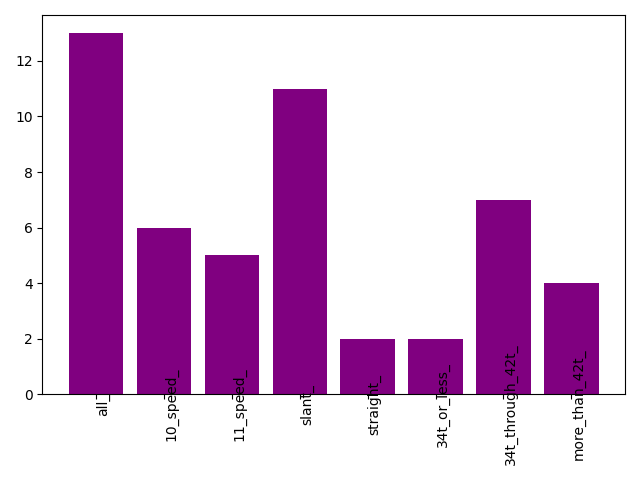
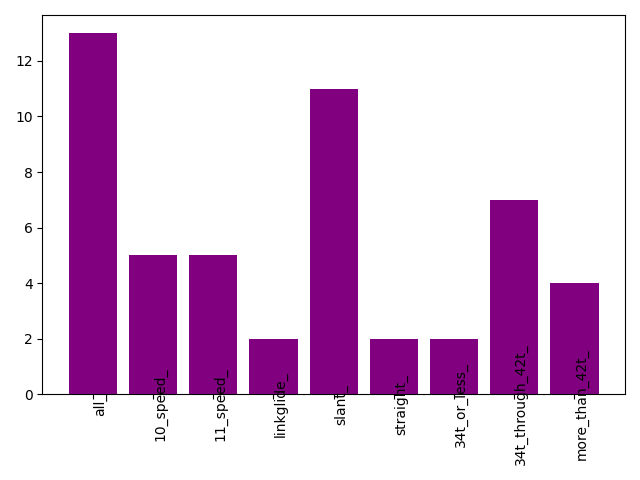
Recategorize

Changed region(s): [[0.1562, 0.0625, 0.9375, 0.9688]]

diff --git a/2-analyze_supported_combos.py b/2-analyze_supported_combos.py
@@ -171,8 +171,9 @@ def graph_combos(prefix, combos):
   plt.savefig(f"combo_analysis/{prefix}max_chain_angle_histogram.png")
 
 graph_combos("all_", supported_combos)
-graph_combos("10_speed_", [c for c in supported_combos if c["shifter"]["speeds"] == 10])
-graph_combos("11_speed_", [c for c in supported_combos if c["shifter"]["speeds"] == 11])
+graph_combos("10_speed_", [c for c in supported_combos if c["shifter"]["speeds"] == 10 and "LinkGlide" not in c["cassette"]["name"]])
+graph_combos("11_speed_", [c for c in supported_combos if c["shifter"]["speeds"] == 11 and "LinkGlide" not in c["cassette"]["name"]])
+graph_combos("linkglide_", [c for c in supported_combos if "LinkGlide" in c["cassette"]["name"]])
 graph_combos("slant_", [c for c in supported_combos if c["derailleur"]["parallelogramStyle"] == "slant"])
 graph_combos("straight_", [c for c in supported_combos if c["derailleur"]["parallelogramStyle"] == "straight"])
 graph_combos("34t_or_less_", [c for c in supported_combos if c["derailleur"]["maxTooth"] <= 34])
